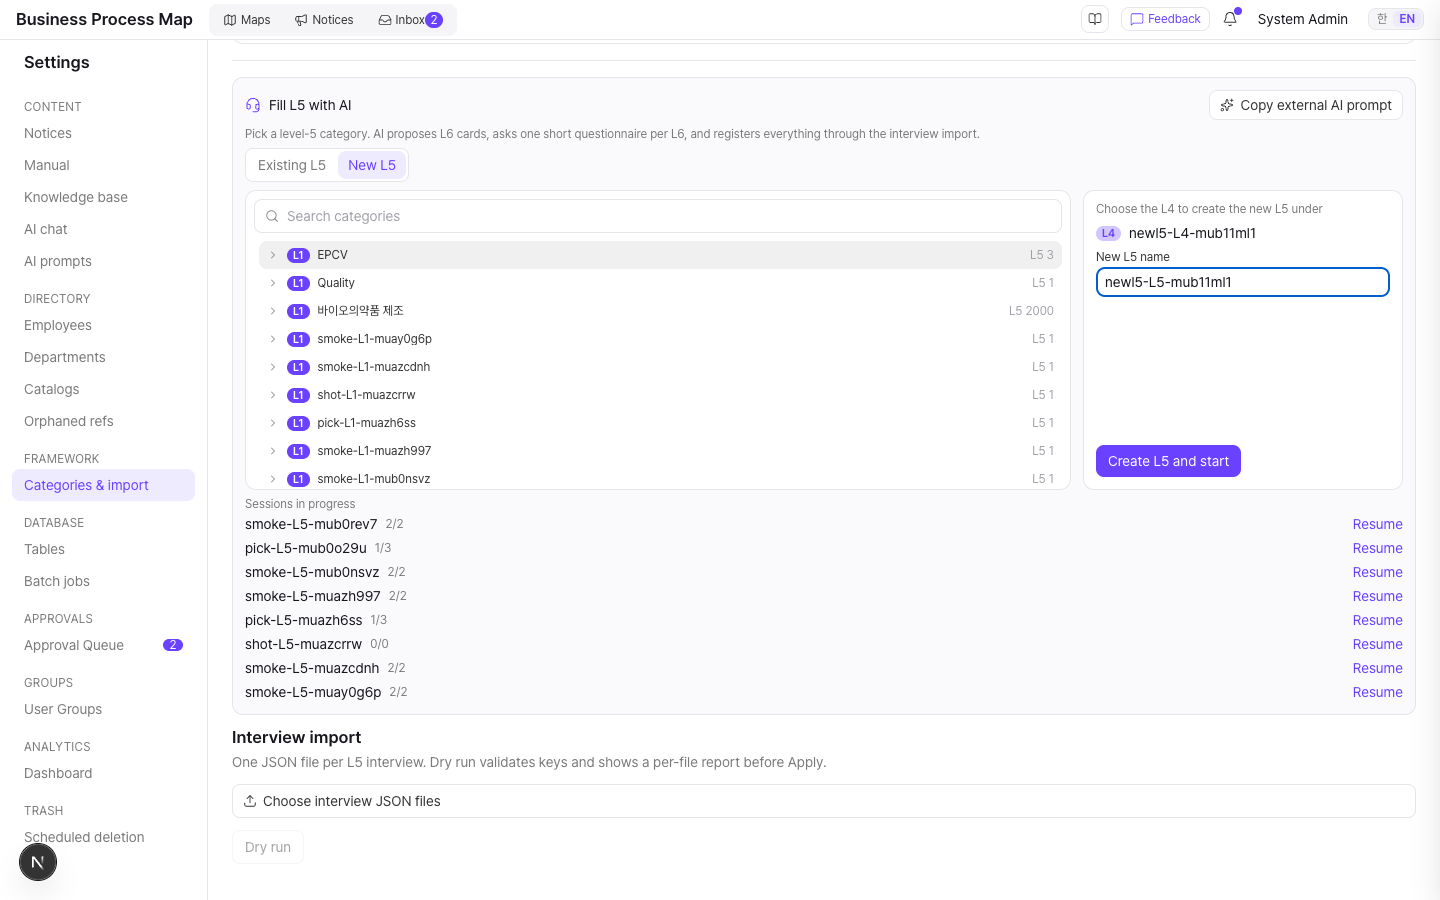
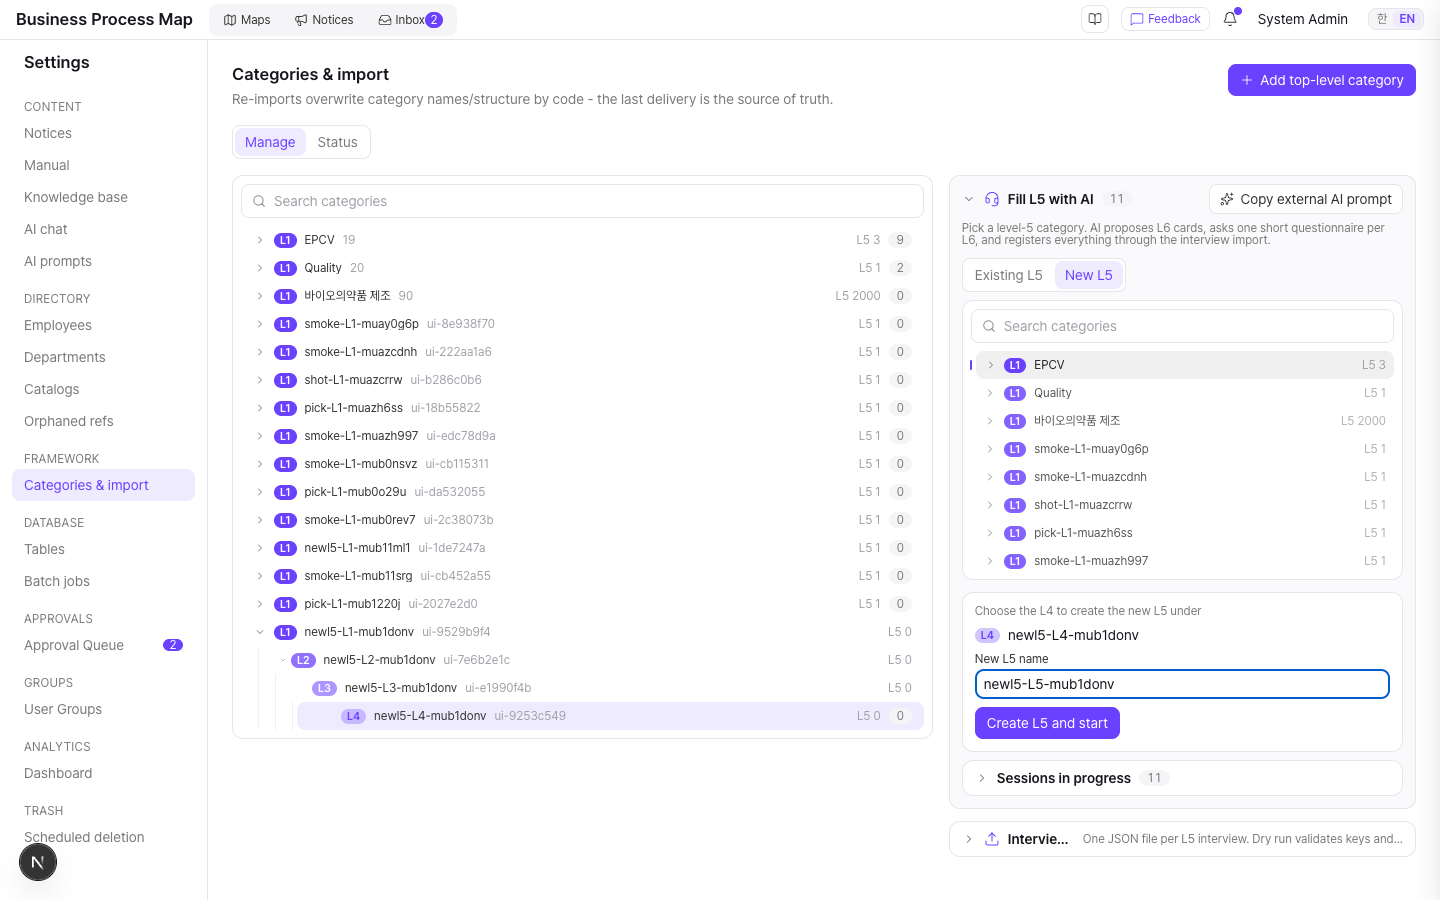
feat(admin): two-column Categories & import with accordion sections — 카테고리 관리 페이지 복수열 + 아코디언 섹션(세션은 접힘·건수)
Why: the manage view stacked the tree, the campaign entry and the
import section in one long column. The tree now sits left; the right
column holds collapsible sections (campaign entry open by default with
the session count as a badge, sessions collapsed, interview import
collapsed with the file count), and the import report spans below.

Claude-Session: https://claude.ai/code/session_01Cp6z7UQxkS4JyPnK2oo8Q2

diff --git a/frontend/src/components/admin/framework-panel.tsx b/frontend/src/components/admin/framework-panel.tsx
@@ -68,6 +68,7 @@ import type { Department, User as MockUser, UserGroup } from "@/lib/mock/permiss
 import { CountTag } from "@/components/maps/count-tag";
 import { ConfirmDialog } from "@/components/confirm-dialog";
 import { CategoryDeptModal } from "@/components/admin/category-dept-modal";
+import { AdminSection } from "@/components/admin/admin-section";
 import { FrameworkOverview } from "@/components/admin/framework-overview";
 import { InterviewJsonPromptButton } from "@/components/framework-interview/interview-json-prompt-button";
 import { InterviewImportReport, type InterviewPhase } from "@/components/admin/import-report/interview-import-report";
@@ -731,7 +732,9 @@ export function FrameworkPanel({ onToast, scopeRootIds }: FrameworkPanelProps) {
         <FrameworkOverview />
       ) : (
         <>
-      <div data-id="framework-admin-tree" className="fw-tree rounded-md border border-hairline p-2">
+      {/* 복수열 — 좌: 카테고리 트리, 우: 아코디언 섹션(캠페인 진입·진행 중 세션·인터뷰 임포트). 리포트는 그리드 아래 전폭 */}
+      <div className="grid grid-cols-1 gap-4 xl:grid-cols-[minmax(0,3fr)_minmax(380px,2fr)]" data-id="framework-manage-grid">
+      <div data-id="framework-admin-tree" className="fw-tree self-start rounded-md border border-hairline p-2">
         {!scopeRootIds && (
           <label className="mb-2 flex min-w-0 items-center gap-2 rounded-sm border border-hairline bg-surface px-2.5 py-1.5 text-caption text-ink">
             <Search size={14} strokeWidth={1.5} className="shrink-0 text-ink-tertiary" />
@@ -794,16 +797,20 @@ export function FrameworkPanel({ onToast, scopeRootIds }: FrameworkPanelProps) {
         )}
       </div>
 
-      {/* 대량 임포트는 sysadmin 전용 — 위임 스코프는 자기 서브트리 밖의 카테고리를 만들 수 있어 배제 */}
+      {/* 대량 임포트·캠페인은 sysadmin 전용 — 위임 스코프는 자기 서브트리 밖의 카테고리를 만들 수 있어 배제 */}
       {!scopeRootIds && (
-      <div className="flex flex-col gap-3 border-t border-hairline pt-4" data-id="interview-import">
-        <div className="flex flex-col gap-2 rounded-md border border-hairline bg-surface-pearl p-3" data-id="fw-consult-entry">
-          <div className="flex items-center gap-2">
-            <Headset size={16} strokeWidth={1.5} className="text-accent" />
-            <span className="text-caption text-ink">{t("fwConsult.start")}</span>
-            <span className="ml-auto"><InterviewJsonPromptButton target={consultTarget} /></span>
-          </div>
-          <p className="text-fine text-ink-tertiary">{t("fwConsult.startHint")}</p>
+      <div className="flex flex-col gap-3" data-id="interview-import">
+        <AdminSection
+          id="consult"
+          title={t("fwConsult.start")}
+          hint={t("fwConsult.startHint")}
+          icon={<Headset size={16} strokeWidth={1.5} />}
+          badge={activeSessions.length > 0 ? activeSessions.length : undefined}
+          actions={<InterviewJsonPromptButton target={consultTarget} />}
+          defaultOpen
+          tone="pearl"
+        >
+        <div className="flex flex-col gap-2" data-id="fw-consult-entry">
           {/* 모드 세그먼트 — 기존 L5 고르기 / 새 L5 만들기(부모 L4 고르고 이름 입력). 홈 뷰 토글과 같은 스타일 */}
           <div data-id="fw-consult-mode" className="flex shrink-0 items-center gap-0.5 self-start rounded-sm border border-hairline bg-surface p-0.5">
             {(["existing", "new"] as const).map((m) => (
@@ -821,14 +828,14 @@ export function FrameworkPanel({ onToast, scopeRootIds }: FrameworkPanelProps) {
               </button>
             ))}
           </div>
-          <div className="grid grid-cols-1 gap-3 lg:grid-cols-[minmax(320px,1fr)_minmax(260px,320px)]">
+          <div className="flex flex-col gap-3">
             <FrameworkCascadePicker
               key={consultMode}
               selectedId={consultPick?.id ?? null}
               onSelect={setConsultPick}
               selectableLevels={consultMode === "existing" ? [5] : [4]}
               maxLevel={consultMode === "existing" ? 5 : 4}
-              height={300}
+              height={280}
               dataIdPrefix="fw-consult-picker"
             />
             <div className="flex flex-col gap-2 rounded-md border border-hairline bg-surface p-3" data-id="fw-consult-pick-summary">
@@ -864,9 +871,10 @@ export function FrameworkPanel({ onToast, scopeRootIds }: FrameworkPanelProps) {
               </button>
             </div>
           </div>
+          {/* 진행 중 세션은 접힌 아코디언 + 건수만(사용자 지시 2026-09-21) */}
           {activeSessions.length > 0 && (
+            <AdminSection id="sessions" title={t("fwConsult.activeSessions")} badge={activeSessions.length}>
             <ul className="flex flex-col gap-1" data-id="fw-consult-active-list">
-              <li className="text-fine text-ink-tertiary">{t("fwConsult.activeSessions")}</li>
               {activeSessions.map((s) => (
                 <li key={s.id} data-id={`fw-consult-active-${s.id}`} className="flex items-center gap-2 text-caption text-ink">
                   <span className="truncate">{s.category_name}</span>
@@ -877,13 +885,18 @@ export function FrameworkPanel({ onToast, scopeRootIds }: FrameworkPanelProps) {
                 </li>
               ))}
             </ul>
+            </AdminSection>
           )}
         </div>
+        </AdminSection>
 
-        <div>
-          <h3 className="text-body-strong text-ink">{t("framework.interviewImportTitle")}</h3>
-          <p className="pt-1 text-caption text-ink-tertiary">{t("framework.interviewImportHint")}</p>
-        </div>
+        <AdminSection
+          id="import"
+          title={t("framework.interviewImportTitle")}
+          hint={t("framework.interviewImportHint")}
+          icon={<Upload size={16} strokeWidth={1.5} />}
+          badge={interviewFiles.length > 0 ? interviewFiles.length : undefined}
+        >
 
         <input
           ref={interviewInputRef}
@@ -961,7 +974,14 @@ export function FrameworkPanel({ onToast, scopeRootIds }: FrameworkPanelProps) {
             {t("framework.importDryRun")}
           </button>
         </div>
+        </AdminSection>
+      </div>
+      )}
+      </div>
 
+      {/* 리포트는 그리드 아래 전폭 — 두 열 안에서는 요약/목록 2단이 좁다 */}
+      {!scopeRootIds && (
+      <div className="flex flex-col gap-3" data-id="interview-import-report-host">
         {/* 리포트 영역은 아코디언(0fr→1fr) — 드라이런을 누르면 먼저 열리며 링이 돌고, 결과가 오면 같은 자리에 리포트가 들어온다.
             래퍼는 항상 두어야 첫 열림도 전환된다(file-card 미리보기와 같은 규칙). 닫힘(Cancel)은 내용을 바로 비우므로 즉시 접힌다. */}
         <div

diff --git a/frontend/src/components/admin/admin-section.tsx b/frontend/src/components/admin/admin-section.tsx
@@ -1,0 +1,80 @@
+"use client";
+
+// 관리자 패널 아코디언 섹션 — 헤더(아이콘·제목·건수 배지·힌트·우측 액션 슬롯) + 0fr→1fr 그리드 전환 본문.
+// 열림 상태는 섹션 id별 localStorage에 남는다(펼침 취향 유지). Framework 탭(캠페인 진입·진행 중 세션·인터뷰 임포트)이 쓴다.
+
+import { ChevronRight } from "lucide-react";
+import { useState, type ReactNode } from "react";
+
+interface AdminSectionProps {
+  id: string;  // localStorage 키(bpm.adminSection.<id>)와 data-id 접미
+  title: string;
+  hint?: string;
+  icon?: ReactNode;
+  badge?: ReactNode;  // 건수 등 — 접힌 상태에서도 보인다
+  actions?: ReactNode;  // 헤더 우측(복사 버튼 등) — 클릭이 토글로 새지 않게 감싼다
+  defaultOpen?: boolean;
+  tone?: "pearl" | "plain";
+  children: ReactNode;
+}
+
+function readOpen(id: string, fallback: boolean): boolean {
+  if (typeof window === "undefined") return fallback;
+  try {
+    const stored = window.localStorage.getItem(`bpm.adminSection.${id}`);
+    return stored === null ? fallback : stored === "1";
+  } catch {
+    return fallback;
+  }
+}
+
+export function AdminSection({ id, title, hint, icon, badge, actions, defaultOpen = false, tone = "plain", children }: AdminSectionProps) {
+  const [open, setOpen] = useState(() => readOpen(id, defaultOpen));
+  function toggle() {
+    setOpen((prev) => {
+      const next = !prev;
+      try {
+        window.localStorage.setItem(`bpm.adminSection.${id}`, next ? "1" : "0");
+      } catch {
+        // 저장 실패는 치명적이지 않다 — 펼침 취향만 복원 안 될 뿐
+      }
+      return next;
+    });
+  }
+  return (
+    <section
+      data-id={`admin-section-${id}`}
+      data-open={open}
+      className={`flex flex-col rounded-md border border-hairline ${tone === "pearl" ? "bg-surface-pearl" : "bg-surface"}`}
+    >
+      <div className="flex items-center gap-2 px-3 py-2">
+        <button
+          type="button"
+          aria-expanded={open}
+          data-id={`admin-section-toggle-${id}`}
+          className="flex min-w-0 flex-1 items-center gap-2 rounded-sm text-left hover:bg-surface-alt"
+          onClick={toggle}
+        >
+          <ChevronRight size={14} strokeWidth={1.5} className={`shrink-0 text-ink-tertiary motion-safe:transition-transform motion-safe:duration-150 ease-smooth ${open ? "rotate-90" : ""}`} />
+          {icon && <span className="shrink-0 text-accent">{icon}</span>}
+          {/* 제목은 잘리지 않는다 — 접힌 상태의 힌트가 남는 폭만 쓰고 먼저 잘린다 */}
+          <span className="shrink-0 text-caption-strong text-ink">{title}</span>
+          {badge !== undefined && badge !== null && (
+            <span className="shrink-0 rounded-full bg-surface-alt px-2 py-0.5 text-fine text-ink-tertiary tabular-nums" data-id={`admin-section-badge-${id}`}>{badge}</span>
+          )}
+          {hint && !open && <span className="min-w-0 truncate text-fine text-ink-tertiary">{hint}</span>}
+        </button>
+        {actions && <span className="shrink-0" onClick={(e) => e.stopPropagation()}>{actions}</span>}
+      </div>
+      {/* 0fr→1fr 전환 — 래퍼는 항상 두어 첫 열림도 애니메이션된다(interview-import-report-wrap과 같은 규칙) */}
+      <div className={`grid transition-[grid-template-rows] duration-350 ease-smooth ${open ? "grid-rows-[1fr]" : "grid-rows-[0fr]"}`}>
+        <div className="min-h-0 overflow-hidden">
+          <div className="flex flex-col gap-3 px-3 pb-3">
+            {hint && open && <p className="text-fine text-ink-tertiary">{hint}</p>}
+            {children}
+          </div>
+        </div>
+      </div>
+    </section>
+  );
+}

diff --git a/PROGRESS.md b/PROGRESS.md
@@ -5,6 +5,7 @@
 
 ## 2026-09-21 — AI 컨설턴트 L5 캠페인 (feat/ai-consultant-l5 → dev 머지)
 
+- **Categories & import 복수열+아코디언(dev):** Manage 뷰를 좌 트리 / 우 아코디언 열(`admin-section.tsx`: 헤더 건수 배지·힌트·액션 슬롯·0fr→1fr 전환·localStorage 펼침 기억)로 재구성. 우측은 [AI로 L5 채우기](기본 펼침, 배지=진행 세션 수, 안에 [진행 중 세션] 접힘 아코디언) + [인터뷰 임포트](접힘, 배지=파일 수). 임포트 리포트는 그리드 아래 전폭.
 - **진입 카드 새 L5 모드 + 계단식 UI(dev):** 공용 `framework-cascade-picker.tsx`(탐색 모달의 계단식 규칙: lazy 트리 엔진·가이드 라인·레벨 필·조상 호버·accordion·검색 히트=체인 펼침, "이동" 대신 "선택") 신설. 진입 카드는 [기존 L5 | 새 L5] 세그먼트 — 새 L5는 L4 선택+이름 입력 → `createCategory`→세션 생성. 관리 트리도 같은 계단식 스타일(레벨 필·가이드 라인·accordion 모션·검색→체인 펼침+강조)로 재구성, 행 액션은 유지. 스모크 `pw-fw-consult.mjs` 12/12(피커 경유)·`pw-fw-consult-new-l5.mjs` 4/4.
 - **연결·등록 단계 UX(dev):** 연결 화면을 좌 L5 미리보기(전체 높이) / 우 패널(L6 카드별 미리보기·답 고쳐 다시 그리기, entry·edges 표는 카드 이름으로, 분기/루프 조건은 별도 행)로 재구성. `POST .../tasks/{id}/reopen`(drawn→ready, 설문·답 유지, 세션 plan_locked로) · `POST .../reopen-relations`(ready→linking)로 뒤로 가기. 등록 단계는 진입 즉시 dry run 자동 실행 + [연결 단계로 돌아가기].
 - **보드 카드 선택(dev):** 준비된(ready) 카드를 눌러 순서와 무관하게 먼저 답하고, 완료 카드는 클릭으로 미리보기(앞 카드가 준비 중이어도 뒤를 진행). 선택 카드가 제출되면 순서상 다음 카드로 복귀. `pw-fw-consult-pick-card.mjs` 3/3.

diff --git a/frontend/COMPONENTS.md b/frontend/COMPONENTS.md
@@ -4,7 +4,7 @@
 
 > 생성 파일 — 손으로 고치지 말고 `node scripts/build-component-catalog.mjs`(frontend/)로 재생성한다. 컴포넌트를 추가·이동·삭제하거나 사용처가 바뀌면 같은 커밋에서 재생성. `--check`는 최신 여부만 검사. 역할 열이 비어 있으면 그 파일에 머리 주석(한 줄 역할 설명)이 없다는 뜻 — 주석을 채운다.
 
-총 280개 · 2026-09-21 기준
+총 281개 · 2026-09-21 기준
 
 ## components/
 
@@ -154,6 +154,7 @@
 
 | 파일 | 컴포넌트 | 역할 | 사용처 |
 |------|----------|------|--------|
+| `admin-section.tsx` | `AdminSection` | 관리자 패널 아코디언 섹션 | `components/admin/framework-panel.tsx` |
 | `admin-table.tsx` | `TableCard`, `RolePill` | 어드민 콘솔 표 공통 셸 | `components/admin/department-table.tsx`, `components/admin/employee-table.tsx`, `components/admin/framework-overview.tsx`, `components/admin/local-account-table.tsx` |
 | `approval-queue.tsx` | `ApprovalQueue` | 시스템 관리자 승인 큐 | `app/settings/page.tsx` |
 | `batch-runs-panel.tsx` | `BatchRunsPanel` | 배치 작업(DB 백업·HR 동기화) 최근 실행 상태 | `app/settings/page.tsx` |
